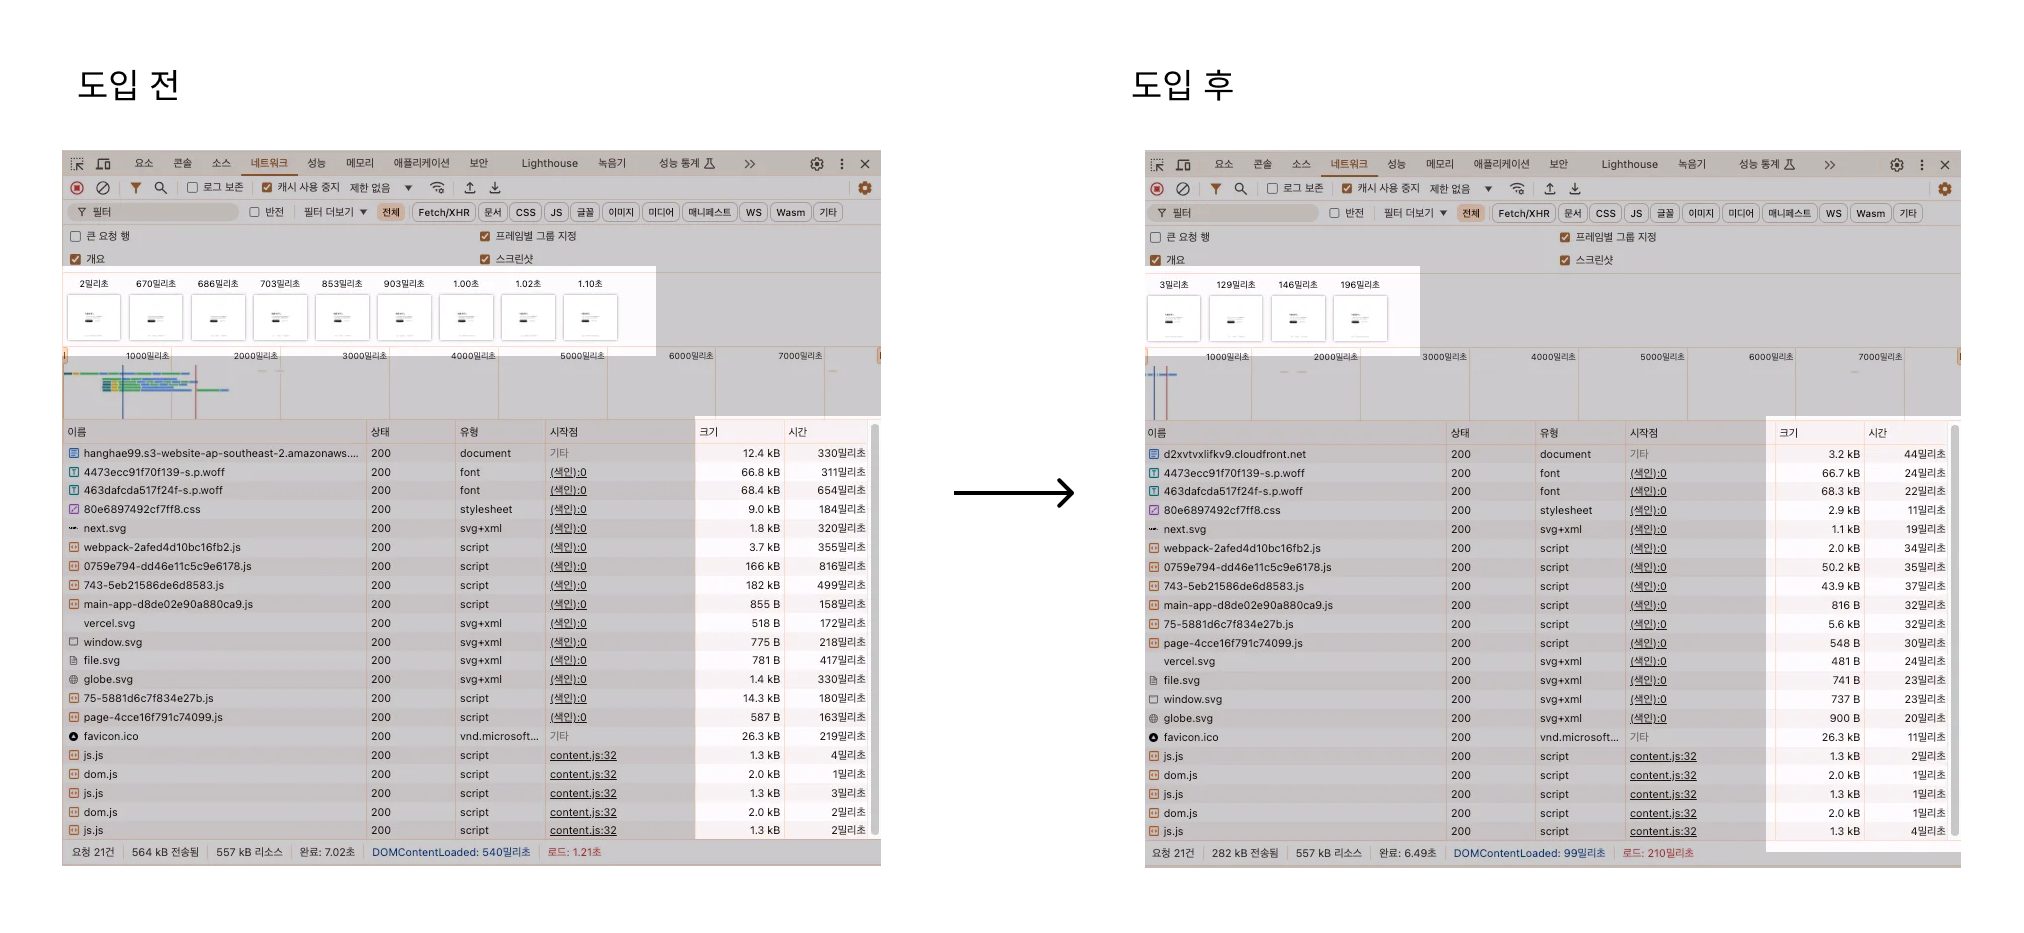
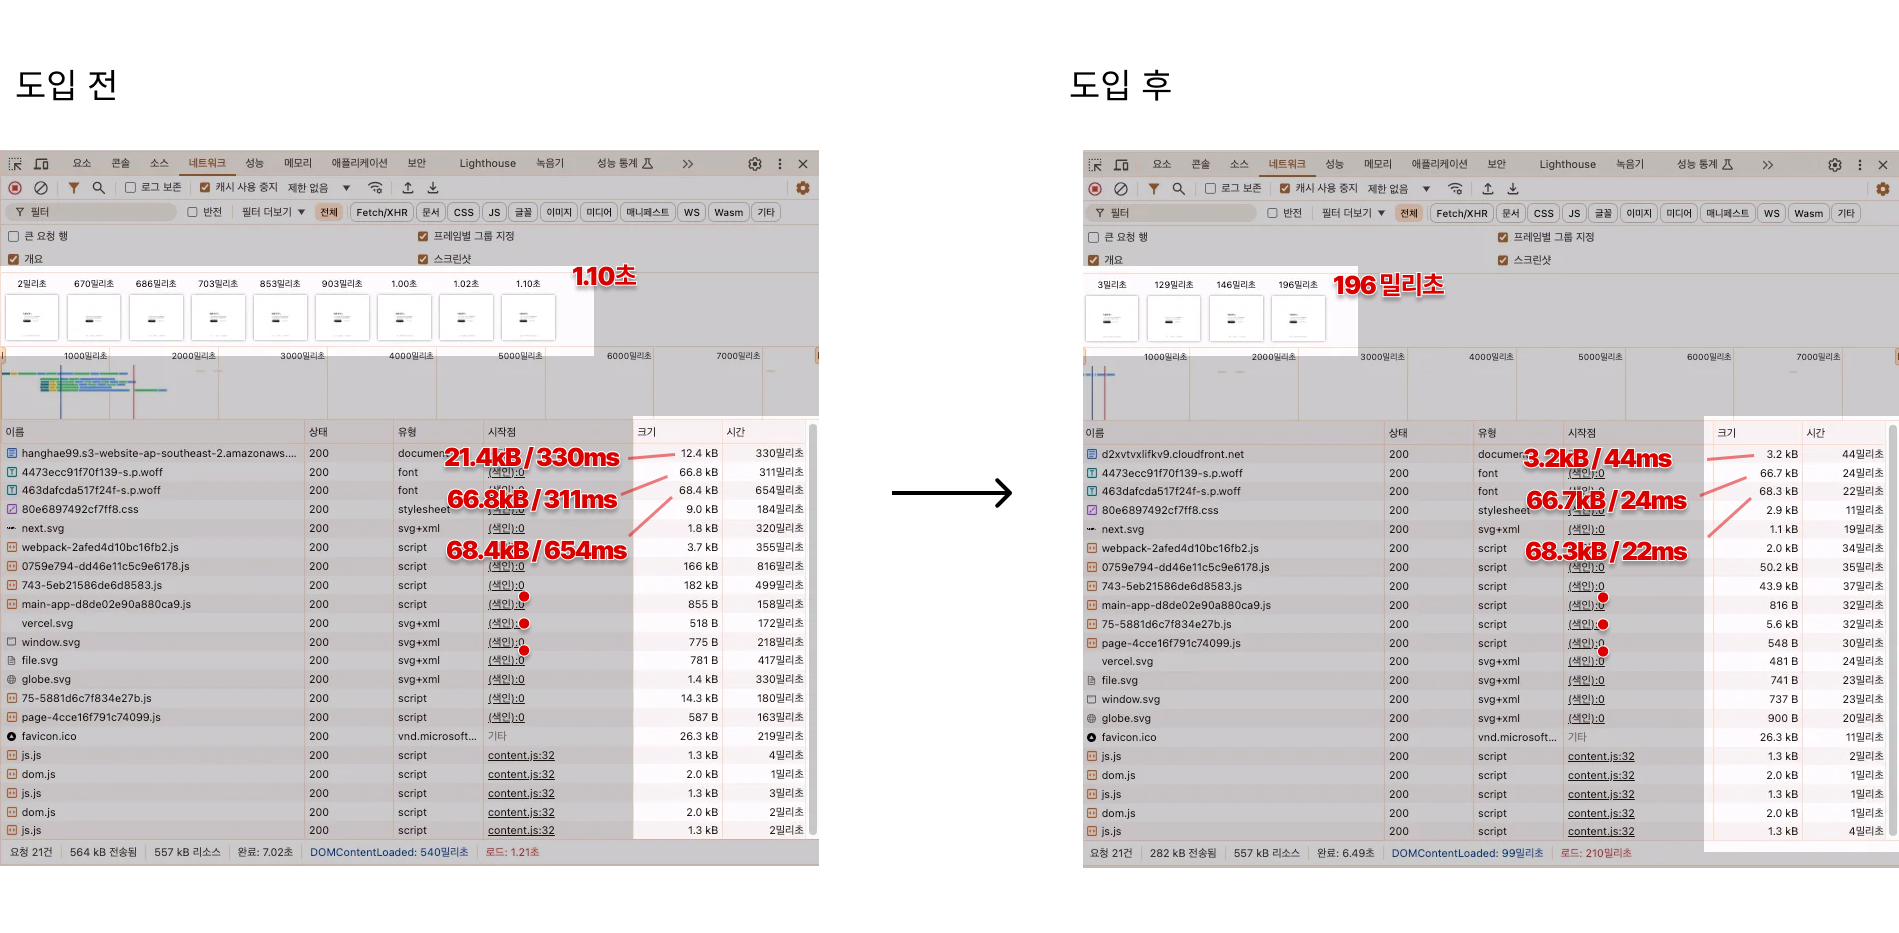
doc: 성능 보고서 표 추가

diff --git a/README.md b/README.md
@@ -40,7 +40,7 @@
 
 ## 1.주요 링크
 
-- S3 버킷 웹사이트 엔드포인트: https://hanghae99.s3-website-ap-southeast-2.amazonaws.com
+- S3 버킷 웹사이트 엔드포인트: http://hanghae99.s3-website-ap-southeast-2.amazonaws.com/
 - CloudFront 배포 도메인 이름: https://d2xvtvxlifkv9.cloudfront.net
 
 ## 2. 개요
@@ -299,6 +299,26 @@ GitHub에서 제공하는 `repository secret`과 `환경 변수`를 사용하여
 
 <img src="/public/네트워크 탭 비교.png" />
 
+| 이름                         | 도입전 크기 | 도입 후 크기 | 크기 개선율 | 도입 전 시간 | 도입 후 시간 | 시간 개선율 |
+| ---------------------------- | ----------- | ------------ | ----------- | ------------ | ------------ | ----------- |
+| text/html                    | 12.4 kB     | 3.2 kB       | **74.19%**  | 330 ms       | 44 ms        | **86.67%**  |
+| 4473ecc91f70f139-s.p.woff    | 66.8 kB     | 66.7 kB      | **0.15%**   | 383 ms       | 107 ms       | **72.06%**  |
+| 463dafcda517f24f-s.p.woff    | 68.4 kB     | 68.3 kB      | **0.15%**   | 700 ms       | 150 ms       | **78.57%**  |
+| 80e6897492cf7ff8.css         | 9.1 kB      | 2.9 kB       | **68.13%**  | 203 ms       | 49 ms        | **75.86%**  |
+| Imagenext.svg                | 1.8 kB      | 1.1 kB       | **38.89%**  | 380 ms       | 102 ms       | **73.16%**  |
+| webpack-2afed4d10bc16fb2.js  | 3.8 kB      | 2.0 kB       | **47.37%**  | 375 ms       | 101 ms       | **73.07%**  |
+| 0759e794-dd46e11c5c9e6178.js | 167 kB      | 50.4 kB      | **69.82%**  | 973 ms       | 70 ms        | **92.81%**  |
+| 743-5eb21586de6d8583.js      | 182 kB      | 43.5 kB      | **76.10%**  | 861 ms       | 55 ms        | **93.61%**  |
+| main-app-3f41541ca5513008.js | 887 B       | 815 B        | **8.11%**   | 284 ms       | 55 ms        | **80.63%**  |
+| 75-5881d6c7f834e27b.js       | 14.4 kB     | 5.5 kB       | **61.81%**  | 288 ms       | 50 ms        | **82.64%**  |
+| page-e789aedd5130169a.js     | 619 B       | 548 B        | **11.48%**  | 184 ms       | 50 ms        | **72.83%**  |
+| Imagevercel.svg              | 550 B       | 481 B        | **12.55%**  | 498 ms       | 49 ms        | **90.16%**  |
+| Imagefile.svg                | 813 B       | 744 B        | **8.49%**   | 498 ms       | 50 ms        | **89.96%**  |
+| Imagewindow.svg              | 807 B       | 737 B        | **8.68%**   | 281 ms       | 51 ms        | **81.85%**  |
+| Imageglobe.svg               | 1.5 kB      | 900 B        | **40.00%**  | 498 ms       | 44 ms        | **91.16%**  |
+| Otherfavicon.ico             | 26.4 kB     | 26.3 kB      | **0.38%**   | 208 ms       | 48 ms        | **76.92%**  |
+| js.js                        | 1.3 kB      | 1.3 kB       | **0.00%**   | 4 ms         | 2 ms         | **100.00%** |
+
 → CDN 도입 후(오른쪽)의 파일 사이즈와 응답속도가 전반적으로 개선된 것을 확인할 수 있습니다.
 
 ### 3.2 주요 성능 지표 비교
@@ -322,7 +342,7 @@ GitHub에서 제공하는 `repository secret`과 `환경 변수`를 사용하여
 
 <img src="/public/응답 헤더 비교.png" />
 
-주요 개선사항:
+**주요 개선사항:**
 
 1. **컨텐츠 압축 적용**: Content-Encoding 헤더를 통해 [Brotli(Content-Encoding: br)](https://yozm.wishket.com/magazine/detail/1739/) 압축 확인
 2. **캐시 적용**: X-Cache 헤더 존재로 캐시 동작 확인
@@ -331,7 +351,7 @@ GitHub에서 제공하는 `repository secret`과 `환경 변수`를 사용하여
 
 <img src="/public/요청의 타이밍 분석 비교.png" />
 
-- 도입전: 331.41ms
+- 도입 전: 331.41ms
 - 도입 후: 45.16ms
 
 #### 시크릿 창에서 4회 반복 측정 결과:
